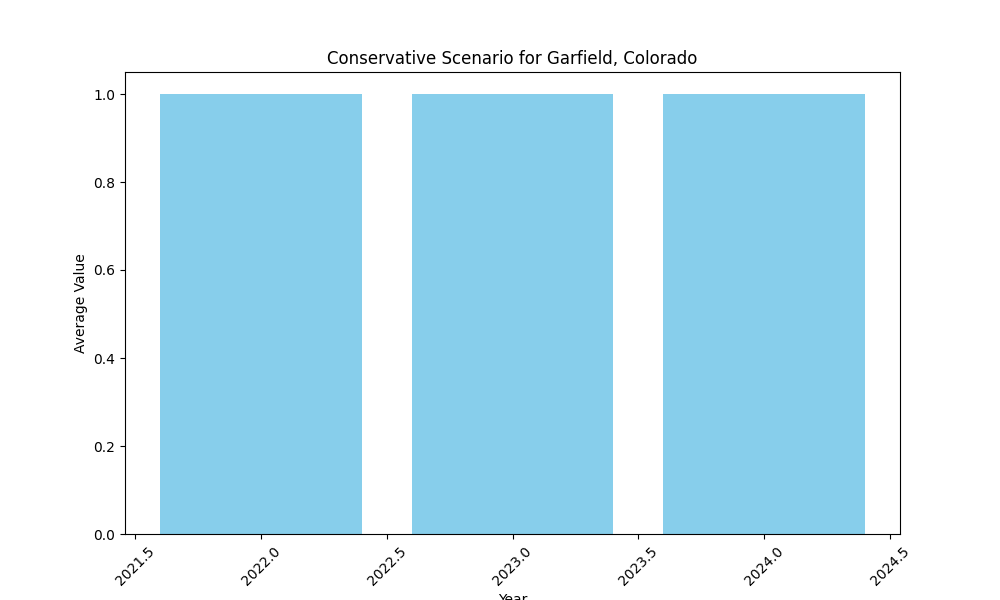
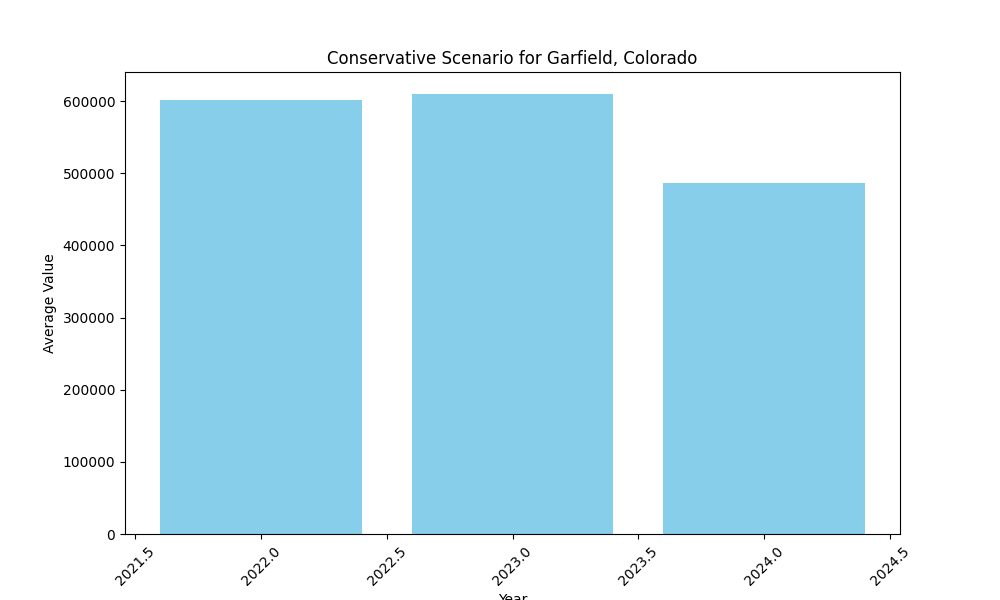
Working Prototype - Graphs

diff --git a/templates/policy.html b/templates/policy.html
@@ -12,14 +12,65 @@
 <body>
     <main>
         <h1>Your Policy's Potential</h1>
-
-        {% if averages %}
+        <div class="charts-wrapper">
+            {% for scenario, data in scenarios_data.items() %}
             <div class="chart-container">
-                <canvas id="averageChart" width="400" height="200"></canvas>
+                <!-- Header with scenario name and formatted average value -->
+                <div class="chart-header">
+                    <h2>{{ scenario }} :: ${{ "{:,.2f}".format(averages[scenario]) }}</h2>
+                </div>
+                <!-- Bar chart -->
+                <canvas id="chart-{{ scenario }}"></canvas>
+                <script>
+                    var ctx = document.getElementById('chart-{{ scenario }}').getContext('2d');
+                    new Chart(ctx, {
+                        type: 'bar',
+                        data: {
+                            labels: {{ data['years']|tojson }},
+                            datasets: [{
+                                data: {{ data['values']|tojson }},
+                                backgroundColor: 'rgba(108, 143, 44, 0.8)', // Green color for bars
+                                borderColor: 'rgba(108, 143, 44, 1)', // Darker green border for bars
+                                borderWidth: 1
+                            }]
+                        },
+                        options: {
+                            indexAxis: 'y',
+                            plugins: {
+                                legend: {
+                                    display: false // Hide the legend
+                                },
+                                tooltip: {
+                                    callbacks: {
+                                        label: function(tooltipItem) {
+                                            return tooltipItem.raw.toLocaleString(); // Format tooltip values with commas
+                                        }
+                                    }
+                                }
+                            },
+                            scales: {
+                                x: {
+                                    beginAtZero: true,
+                                    ticks: {
+                                        callback: function(value) {
+                                            return value.toLocaleString(); // Format x-axis labels with commas
+                                        }
+                                    }
+                                }
+                            }
+                        }
+                    });
+                </script>
             </div>
-        {% else %}
-            <p>No data available for the selected county and state.</p>
-        {% endif %}
+            {% endfor %}
+            
+            
+            
+        </div>
+        
+        </div>
+        
+        </div>
         
         <header>
             <h3>Get Monthly Updates on These Policy Options!</h3>
@@ -51,30 +102,32 @@
 
     <script>
         // Data passed from Flask
-        const scenarioData = {{ scenario_data | tojson }};
+        const scenarios = {{ scenarios_data | tojson }};
 
-        // Render a chart for average values
-        if (scenarioData) {
-            const ctx = document.getElementById('averageChart').getContext('2d');
-            new Chart(ctx, {
-                type: 'bar',
-                data: {
-                    labels: scenarioData.labels,  // Scenario names
-                    datasets: [{
-                        label: 'Average Values',
-                        data: scenarioData.values,  // Average values for each scenario
-                        backgroundColor: 'rgba(54, 162, 235, 0.6)',
-                        borderColor: 'rgba(54, 162, 235, 1)',
-                        borderWidth: 1
-                    }]
-                },
-                options: {
-                    scales: {
-                        y: {
-                            beginAtZero: true
+        // Render a chart for each scenario
+        if (scenarios) {
+            Object.keys(scenarios).forEach((scenario, index) => {
+                const ctx = document.getElementById(`chart-${index}`).getContext('2d');
+                new Chart(ctx, {
+                    type: 'bar',
+                    data: {
+                        labels: scenarios[scenario].years,  // Years for the scenario
+                        datasets: [{
+                            label: scenario,
+                            data: scenarios[scenario].values,  // Values for each year
+                            backgroundColor: 'rgba(54, 162, 235, 0.6)',
+                            borderColor: 'rgba(54, 162, 235, 1)',
+                            borderWidth: 1
+                        }]
+                    },
+                    options: {
+                        scales: {
+                            y: {
+                                beginAtZero: true
+                            }
                         }
                     }
-                }
+                });
             });
         }
     </script>

diff --git a/static/style.css b/static/style.css
@@ -242,3 +242,31 @@ main {
 .restart-icon:hover {
     color: #8b1013;
 }
+.charts-wrapper {
+    display: flex;
+    justify-content: space-between;
+    gap: 20px; /* Adds space between the charts */
+    flex-wrap: wrap; /* Allows wrapping to the next line if necessary */
+}
+
+.chart-container {
+    flex: 1; /* Distribute space equally */
+    min-width: 300px; /* Minimum width for each chart */
+    border: 1px solid #333;
+    background-color: #f8f8f8;
+    margin: 10px;
+}
+
+.chart-header {
+    background-color: #6c8f2c; /* Green background */
+    color: #fff; /* White text */
+    padding: 10px;
+    text-align: center;
+    font-weight: bold;
+}
+
+canvas {
+    display: block;
+    width: 100%;
+    margin: 0 auto;
+}

diff --git a/app.py b/app.py
@@ -43,29 +43,25 @@ def get_scenario_data(state, county):
     
     if county_data.empty:
         logging.warning(f"No data found for County: {county}, State: {state}")
-        return {}
+        return {}, {}
 
-    # Group by Scenario and Year, then calculate average values
+    # Group by Scenario and Year
     avg_data = county_data.groupby(['Scenario', 'Year'])['Value'].mean().reset_index()
 
-    # Create bar plots for each scenario
-    scenarios = ['Conservative', 'Moderate', 'High Net']
-    plot_paths = {}
-    for scenario in scenarios:
+    # Prepare data for rendering charts
+    scenarios_data = {}
+    for scenario in avg_data['Scenario'].unique():
         scenario_data = avg_data[avg_data['Scenario'] == scenario]
-        if not scenario_data.empty:
-            plt.figure(figsize=(10, 6))
-            plt.bar(scenario_data['Year'], scenario_data['Value'], color='skyblue')
-            plt.title(f'{scenario} Scenario for {county}, {state}')
-            plt.xlabel('Year')
-            plt.ylabel('Average Value')
-            plt.xticks(rotation=45)
-            plot_path = f'static/plots/{county}_{state}_{scenario}.png'
-            plt.savefig(plot_path)
-            plt.close()
-            plot_paths[scenario] = plot_path
+        scenarios_data[scenario] = {
+            'years': scenario_data['Year'].tolist(),
+            'values': scenario_data['Value'].tolist()
+        }
 
-    return plot_paths, avg_data.groupby('Scenario')['Value'].mean().to_dict()
+    # Calculate overall averages for display
+    averages = avg_data.groupby('Scenario')['Value'].mean().to_dict()
+
+    return scenarios_data, averages
+
 
 
 
@@ -111,20 +107,15 @@ def acres():
 def policy():
     county = session.get('county')
     state = session.get('state')
-    plot_paths, averages = get_scenario_data(state, county)
+    scenarios_data, averages = get_scenario_data(state, county)
 
     form = EmailForm()
     if form.validate_on_submit():
         session['email'] = form.email.data
         return redirect(url_for("thanks"))
 
-    # Prepare data for JavaScript
-    scenario_data = {
-        "labels": list(averages.keys()),
-        "values": list(averages.values())
-    }
+    return render_template("policy.html", scenarios_data=scenarios_data, averages=averages, step=3, form=form)
 
-    return render_template("policy.html", plot_paths=plot_paths, averages=averages, scenario_data=scenario_data, step=3, form=form)
 
 
 
